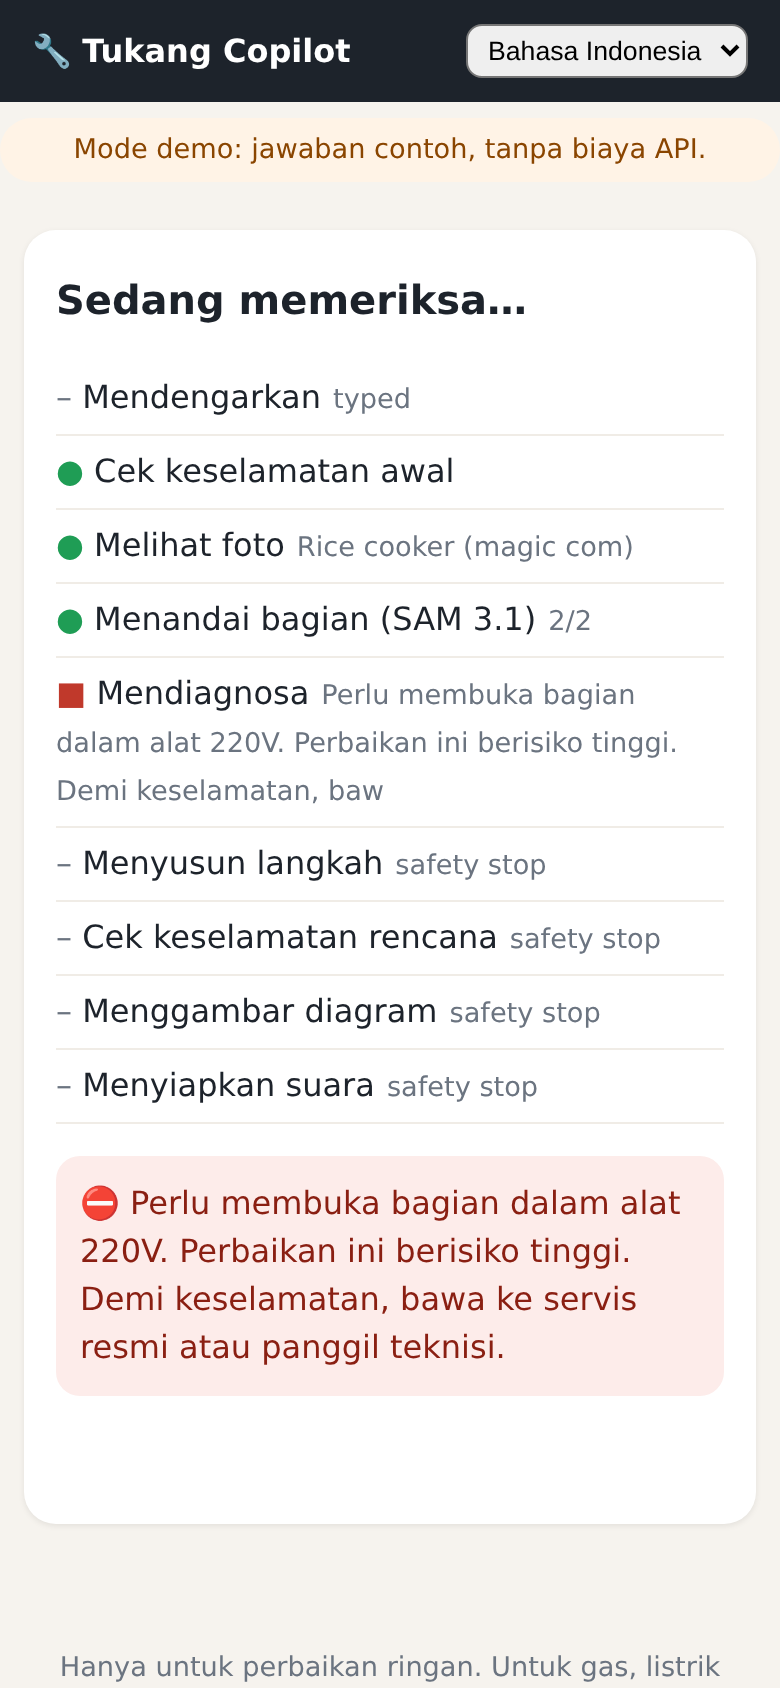
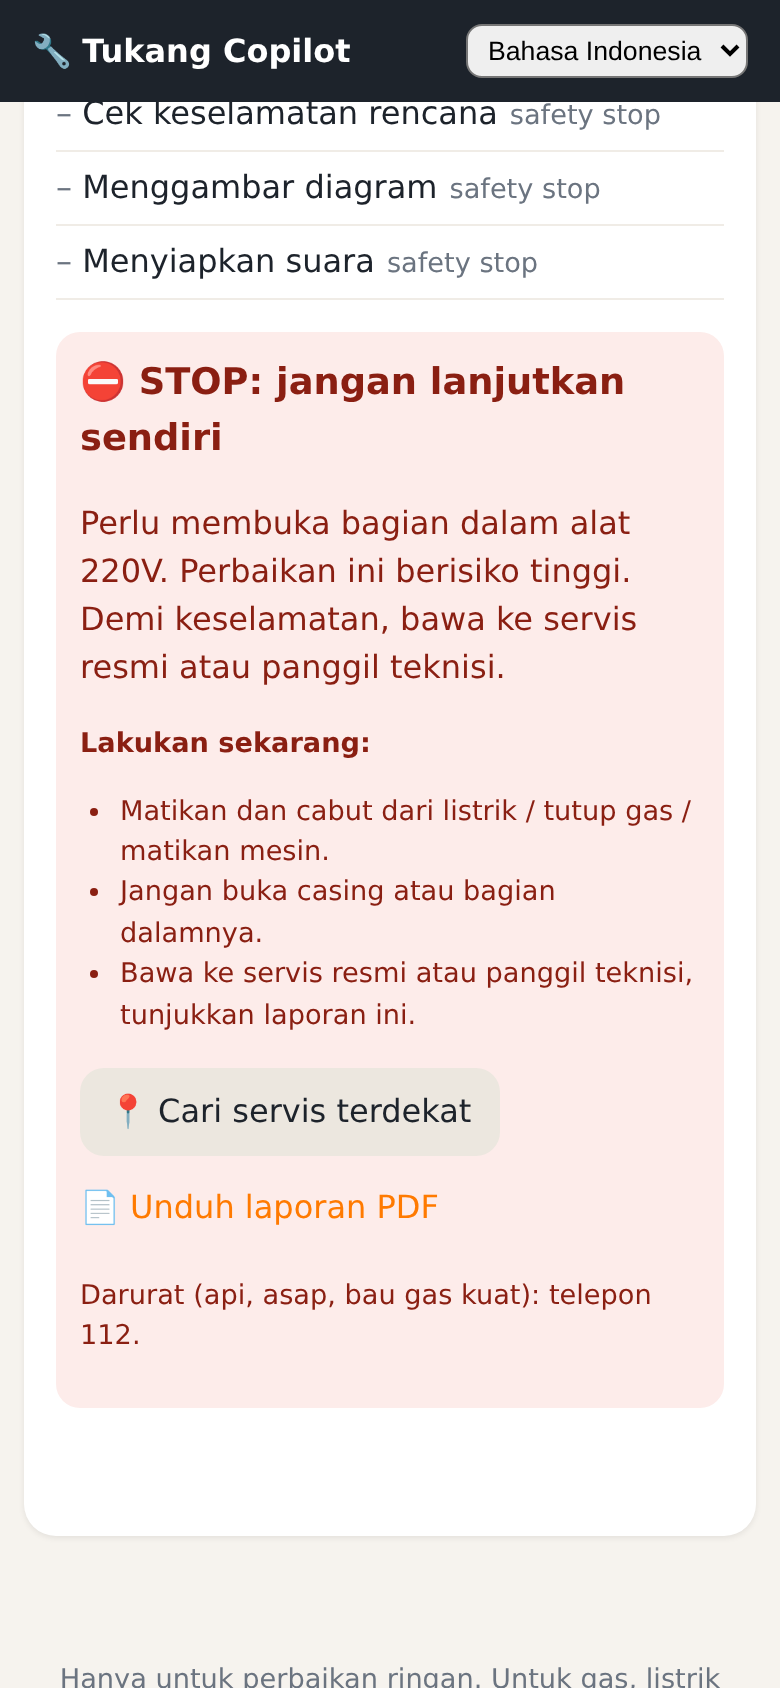
Demo assets regenerated with video capture + safety card UI

diff --git a/scripts/make_demo_assets.py b/scripts/make_demo_assets.py
@@ -176,7 +176,7 @@ def shots() -> None:
         go_sample("pump"); pg.wait_for_selector("#result:not(.hidden)", timeout=30000)
         pg.evaluate("window.scrollTo(0,0)"); snap("10_pump")
         go_sample("rice"); pg.wait_for_selector("#stopBox:not(.hidden)", timeout=30000)
-        pg.evaluate("window.scrollTo(0,0)"); snap("11_rice_stop")
+        pg.locator("#stopBox").scroll_into_view_if_needed(); pg.evaluate("window.scrollBy(0,140)"); snap("11_rice_stop")
         go_sample("faucet", "en"); pg.wait_for_selector("#result:not(.hidden)", timeout=30000)
         pg.evaluate("window.scrollTo(0,0)"); snap("13_english")
         pg.goto(base + "/"); pg.select_option("#lang", "jv"); pg.wait_for_timeout(300); snap("14_garage_jv", full=True)
